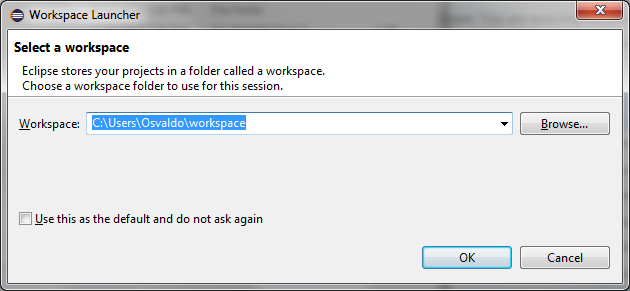
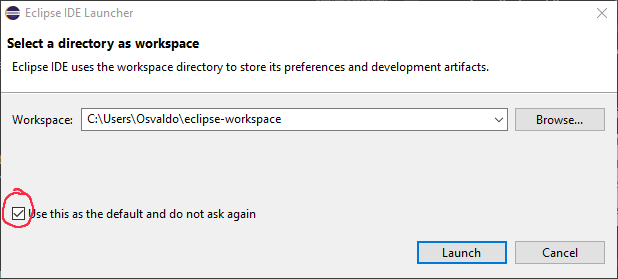
Newest eclipse with darkest dark theme

Changed region(s): [[0.0, 0.0, 1.0, 1.0]]

diff --git a/docs/labs/1-JavaEclipse.md b/docs/labs/1-JavaEclipse.md
@@ -2,109 +2,121 @@
 
 If you are using a school computer skip down to Step 5.
 
-## STEP 0: Remove any previous installations of Java that you have
+## STEP 1: Remove any previous installations of Java that you have
 
-This class uses a very specific version of java, specifically Java 8 to
+This class uses a very specific version of java, to
 help us in getting certain elements done quickly and efficiently. In
 order to remove any confusion, we're going to have you remove any
 previous versions of java that you may have, so that they don't get used
 when installing eclipse. You can do this by going to your add and remove
-programs setting in windows, or applications on a mac.
+programs setting in windows, or applications on a mac, and searching for any java programs, and **remove them**.
 
-## STEP 1: First thing you'll need is a Java 8 JDK (Java Development Kit)
+![](lab1media/media/image0.gif)
 
-To get a Java 8 JDK, go to:
 
-<http://www.oracle.com/technetwork/java/javase/downloads/index.html>
-
-Your page may be updated - click on the JDK link on that page that will
-lead you to **Java 8** which is typically in the middle of the page
-somewhere
-
-![](lab1media/media/image1.png)
-
-That will take you to an awesome page with lots of options for which JDK
-you want to download, try to pick the version that corresponds to your
-operating system (Windows for the most of you) and accept the license
-agreement. The latest version is the one on the website and not the one
-posted here.
-
-![](lab1media/media/image2.png)
-
-You'll download a largish file.
-
-## STEP 2: Install the JDK
-
-Go ahead and install and accept for the most part EXCEPT if they ask you
-if you want some extra software or add-on. That's your call. Pick where
-you want it located and continue to get it to installed.
-
-## STEP 3: Download Eclipse
+## STEP 2: Download Eclipse
 
 Go to the eclipse site: <http://www.eclipse.org/downloads>
 
 ![](lab1media/media/image3.png)
 
 Click the orange download 64 bit button. It will take you to another
-page where you need to click the big download button again.
+page where you need to click the big orange download button again at the top.
 
 Wait for that file to download.
 
-## STEP 4: Run the Eclipse Installer
+## STEP 3: Run the Eclipse Installer
 
 Once you double click the installer, you'll eventually be taken to a
 screen that looks like this.
 
 ![](lab1media/media/image4.png)
 
-Click on *Eclipse for Java Developers*. It will then ask you to specify
-where you would like eclipse to be installed and live. You can also
+Click the top option on *Eclipse for Java Developers*. It will then ask you to specify
+where you would like eclipse to be installed and live, as well as what JRE you'd like.  Stick to the JRE specified in the list, and pick an appropriate place. You can also
 choose whether you want a start menu entry or desktop icon. After
 clicking *Install* you can read the User Agreement or just click Accept
 Now. If you click Decide Later it will just pop up later in the process.
 
-Once it's finished installing, you'll then get a green *Launch* button
-which you can click to start Eclipse.
+Also, you may receive a warning about the process taking longer than usual, have no fear, just let it keep working.
 
-## STEP 5: Get Familiar with and start Eclipse
+Once it's finished installing, you'll then get a green *Launch* button.
+Click it to start Eclipse.
+
+![](lab1media/media/greenlaunch.png)
+
+## STEP 4: Get Familiar with and start Eclipse
 
 Since this is your first time running eclipse here are a couple of
 things you want to know.
-
-![](lab1media/media/image5.png)
 
 *If you are using a school computer, make sure that you change the
 workspace to a **Comp 55** folder inside of your **Documents** folder.*
 
 When you double click eclipse, after seeing the splash screen you will
-be greeted with this.
+be greeted with the image below.
 
 Eclipse likes to use the word **workspace** to mean the location where
 you store all of your code. Think of it as the parent or base directory.
 It breaks that directory or workspace down into **projects**, which is
 the code you'd write for different assignments or different projects.
 Each project gets its own directory, you can think of the project as the
-solution from C++ or Visual Studio. Eclipse does allow for you having
-different workspaces and allows you to switch between them, which is why
+solution from C++ or Visual Studio. Eclipse allows you to have
+different workspaces and switch between them, which is why
 it asks this question. Go ahead and pick the directory where you want
-your projects to live on your hard drive. **I would recommend clicking
+your projects to live on your hard drive. **Click
 the checkbox to use as a default, and then click OK.**
 
-That after loading the application, Eclipse will then jump you to a
+![](lab1media/media/image5.png)
+
+Once clicked and Eclipse takes a bit to start up, Eclipse will then jump you to a
 screen that looks something like this…
 
 ![](lab1media/media/image6.png)
 
-**Uncheck the box at the bottom** and then click on the workbench button
-up near the top. You can go to the tutorials or look at the overview if
-you have the time, or you can just click on Workbench, which brings you
-the basic layout and looks like this.
+### Reviewing IDE configuration settings
+
+Since all of you have had some previous experiences with other IDEs, Eclipse allows you to review some settings that depending on how you work you may want to change.  In case you are curious, these are the options that I ended up with at the end.
+
+![](lab1media/media/reviewprefs.png)
+
+The next thing we are going to do is change eclipse's appearance.  I have been using eclipse for a long time now, and did not change this until this year.  Because eclipse is written in Java it does not have as clean of an interface as some of the other programs that you have had, but remember, this is open source and it is used heavily in industry.  I would not play around too much with the colors, but I will walk you through this one option, because when we get to using some of the other features, and when we start building code, I will be using the skin here and so it will be easiest to follow along with tutorials and such if you change the appearance to match mine. **Please follow the options here to get full credit for the image you upload**
+
+## STEP 5: Installing Darkest Dark Theme
+
+Once you are back you should be at the main page where we clicked to review the IDE preferences.  Go ahead and click to go the eclipse marketplace.  This will launch a variety of plugins and tools that have been developed to integrate into eclipse.  Here what we will do is download the darkest dark theme.  So search for "dark" in the marketplace and it should be the first option, which has 1.5M downloads, click install, and then confirm.  You'll have to accept another license agreement by picking the option before being ablet to finish. 
+
+![](lab1media/media/darkestdark.gif)
+
+One it finishes installing, eclipse will ask you to restart eclipse to apply the software update, click **Restart Now**
+
+![](lab1media/media/restarteclipse.png)
+
+Eclipse will close and start itself up again.  Once it finishes you'll be greeted with this screen.  
+
+![](lab1media/media/darkestdarkwelcome.png)
+
+Go ahead and click next.  You'll then be presented with some options.  While your preferences are up to you, in order to match this website's color scheme and the labs, , I will be going with darkest dark theme in the middle (If I have a chance, I will probably change the theme even more.  That is a rabbit hole though, so I can show you how to do that later).  While you can change the color scheme to whatever you want, just know the icons and any future screens you see may differ a little bit from what I have.  **Please do not spend more than 10 minutes looking at all the color combinations**
+
+Once you click next, you may get a scary looking screen about windows defender possibly getting angry with you about directories that Darkest dark will change and offers a fix.  I did just say *Fix Automatically*. (I'm not sure what happens if you click skip)
+
+![](lab1media/media/defenderwarning.png)
+
+If you do allow it to fix automatically, you'll have to allow for elevated privileges from Genuitec LLC, which is the maker of Darkest Dark.  
+
+Then eclipse will fire up with Darkest Dark one last time to ask you about your options.  I left all of this the same, except for checking the box "Show breadcrumbs", which just helps with navigation, then finish.  Once you do, you'll see the same launch screen as before, but if you picked the theme, you'll see some of the windows in a different color.
+
+![](lab1media/media/eclipsestartdark.png)
+
+Go ahead and click hide, and you'll now be shown your new workspace.
+
+![](lab1media/media/eclipsedarkinit.png).
+
+If you didn't end up switching to this darkest dark theme, then your eclipse would look liook more like the image below.  This is from a previous version, so the windows open may be slightly different.
 
 ![](lab1media/media/image7.png)
 
-I typically close the task list tab on the right. On the left is package
-explorer, where you will have all of your projects listed, and the
-middle window will bring up your code. Eclipse is different than Visual
+Eclipse describes the different panels that you have as **windows**.  The left window is called the package explorer, where you will have all of your projects listed, and the middle window will bring up your code. Eclipse is different than Visual
 Studio in that when you start Eclipse, all of your projects will be
 listed, which I think makes it easier for you to look at past projects
 and explore other files you have written, in case you need to look back
@@ -118,10 +130,9 @@ thing like "Hello, world", so let's do that. Go ahead and right click on
 Solutions you had in Visual Studio. After clicking, you'll see a window
 that looks like this…
 
-![](lab1media/media/image8.png)
+![](lab1media/media/image8.gif)
 
-Give your project a name *HelloWorld*, and then click **Finish**. You'll
-see a project on the left.
+Give your project a name *Hello World*, and then click **Finish**. They'll ask you if you want to create a module info, which you can ignore for now by clicking **Don't Create**.  You'll then see see a project named Hello World on the left in your package explorer.
 
 Now, Right-click on the project name (HelloWorld) and then go to
 *New-\>Class*, (this can also be accessed from the file menu
@@ -131,7 +142,7 @@ This takes you to a window with a lot of options that looks like this,
 though this version has it populated with the options you want,
 highlighted.
 
-![](lab1media/media/image9.png)
+![](lab1media/media/image9.gif)
 
 In Java, class files are where you will write your code. Rather than
 having separate .h and .cpp files like in C++, Java just has one file,
@@ -145,22 +156,19 @@ the name for the class and selecting the *public static void main*
 option are the only two things you need to do before you click
 **Finish**.
 
-Once you do, you'll get a window that looks something like this.
-
-![](lab1media/media/image10.png)
+Once you do, you'll get the code at the end that you see in the image above.
 
 ## STEP 7: Write and Run
 
 Notice that the file Hello.java is now your HelloWorld Project. That
-file has also been opened in the editor, where it has a few words. Any
-text in blue you can ignore for now. ```public class Hello``` just lets
+file has also been opened in the editor, where it has a few words. ```public class Hello``` just lets
 the computer know that you are creating a class. All java files are
 class files; the name after ```public class``` must match the .java
 filename. If you change it, (like we did below to say *Hello1*) you will
 be greeted by a nice red squiggly. Hover over the squiggly to get the
 quick fix popup shown below.
 
-![](lab1media/media/image11.png)
+![](lab1media/media/image11.gif)
 
 Notice the quick fixes…These are options you can click on to have
 eclipse do little tasks for you, like change Hello1 back to Hello, or to
@@ -178,17 +186,17 @@ and tell you that code recommenders is enabled, which is a nifty little
 feature for later.
 
 After typing the line, go ahead and right-click on your java file, and
-head to *Run-as-\>Java application*, or you can just click on *Run* in
+head to *Run-as-\>Java application*, or you can just click the *Run* ![Run](lab1media/media/runicondark.png) in
 the menu up top. The super handy keyboard shortcut here is
 ***Ctrl-F11.*** If you haven't saved, you'll get a popup asking if you
-want to save like this.
+want to save like this, without the arrows but **make sure it is checked**
 
-![](lab1media/media/image12.png)
+![](lab1media/media/savealways.png)
 
 Again, here I would check the box at the bottom to always save resources
 before launching, and click that you want it to save before running. If
 you didn't get the popup, add an exclamation point to *Hello, World\!*
-and then run it again without saving.
+and then run it again without saving.  Please make sure that you follow these steps.  If I see that you haven't completed this step in the future, expect some scorn from me.
 
 Once you click OK you'll get the console up and running, which will show
 on the bottom of the screen.
@@ -197,16 +205,15 @@ on the bottom of the screen.
 
 Congrats you've written and run your first Java application\! Java
 doesn't have a separate compile and run step like you did in C++, it's
-all combined into one step.
+all combined into one step.  Like I mentioned to you before, the whole colors thing is a big rabbit hole.  If you notice in the picture that I ran, the text that should be colored is not, which may happen.  That is ok.  Once you start editing it again it will re-apply the color scheme.  It's not pretty but it's what we have, so just let it be for now. 
 
 # STEP 8 – Submit confirmation by uploading a picture to Canvas
 
 To get credit for this lab, what you'll do is submit an image of you
 running this hello world program to canvas, but using your own name
-instead. The image should be of the program, similar to the one on the
-previous page. To get full credit however, use a for loop, make sure the
+instead. The image should be of the program, similar to the one in the image above. To get full credit however, **use a for loop, make sure the
 java file is showing and have the for loop repeat the salutation three
-times. In my case it would be something like
+times**. So it would be something like
 
 ```
 
@@ -217,6 +224,8 @@ Hello, PutYourName Here!
 Hello, PutYourName Here!
 
 ```
+
+But with your own name there instead.
 
 If you don't remember how to do a ```for``` loop, here's a snippet from
 Princeton's java cheatsheet.
@@ -225,7 +234,7 @@ Princeton's java cheatsheet.
 
 ![](lab1media/media/image14.png)
 
-Also, if you're not sure how to get an image, use the **Snipping tool**
+Also, if you're not sure how to get an image, use the **Snipping tool** or **Snip & Sketch**
 for windows (Search for it in your windows menu). If you're on a mac,
 key in: *⌘ + Shift + 4*. Or just google "take screenshot window mac" and
 the instructions will come up.
